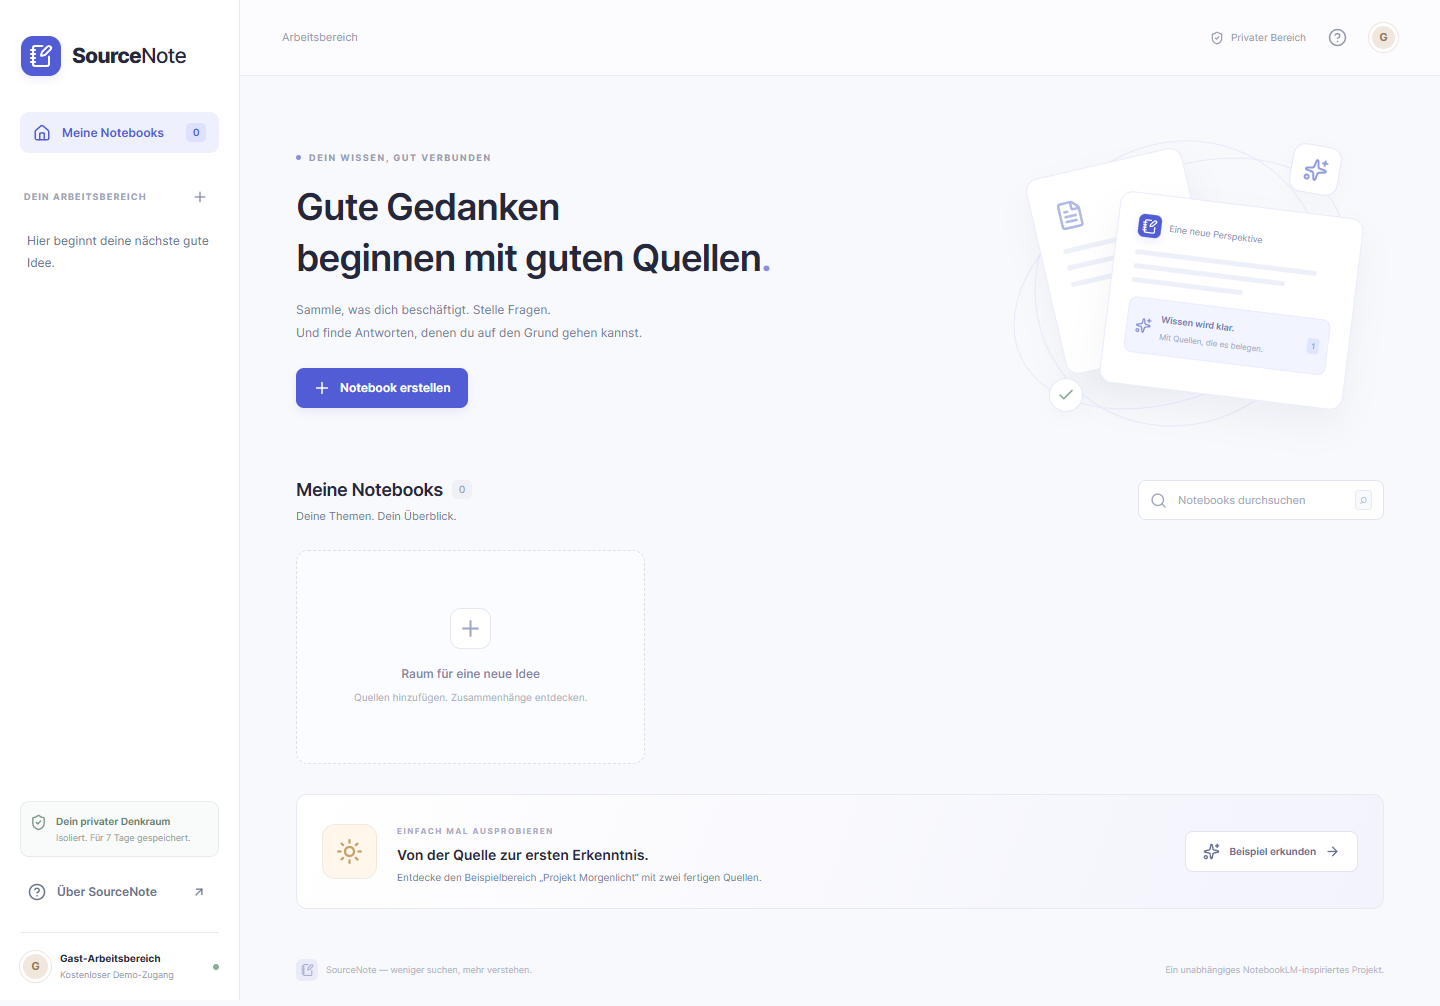
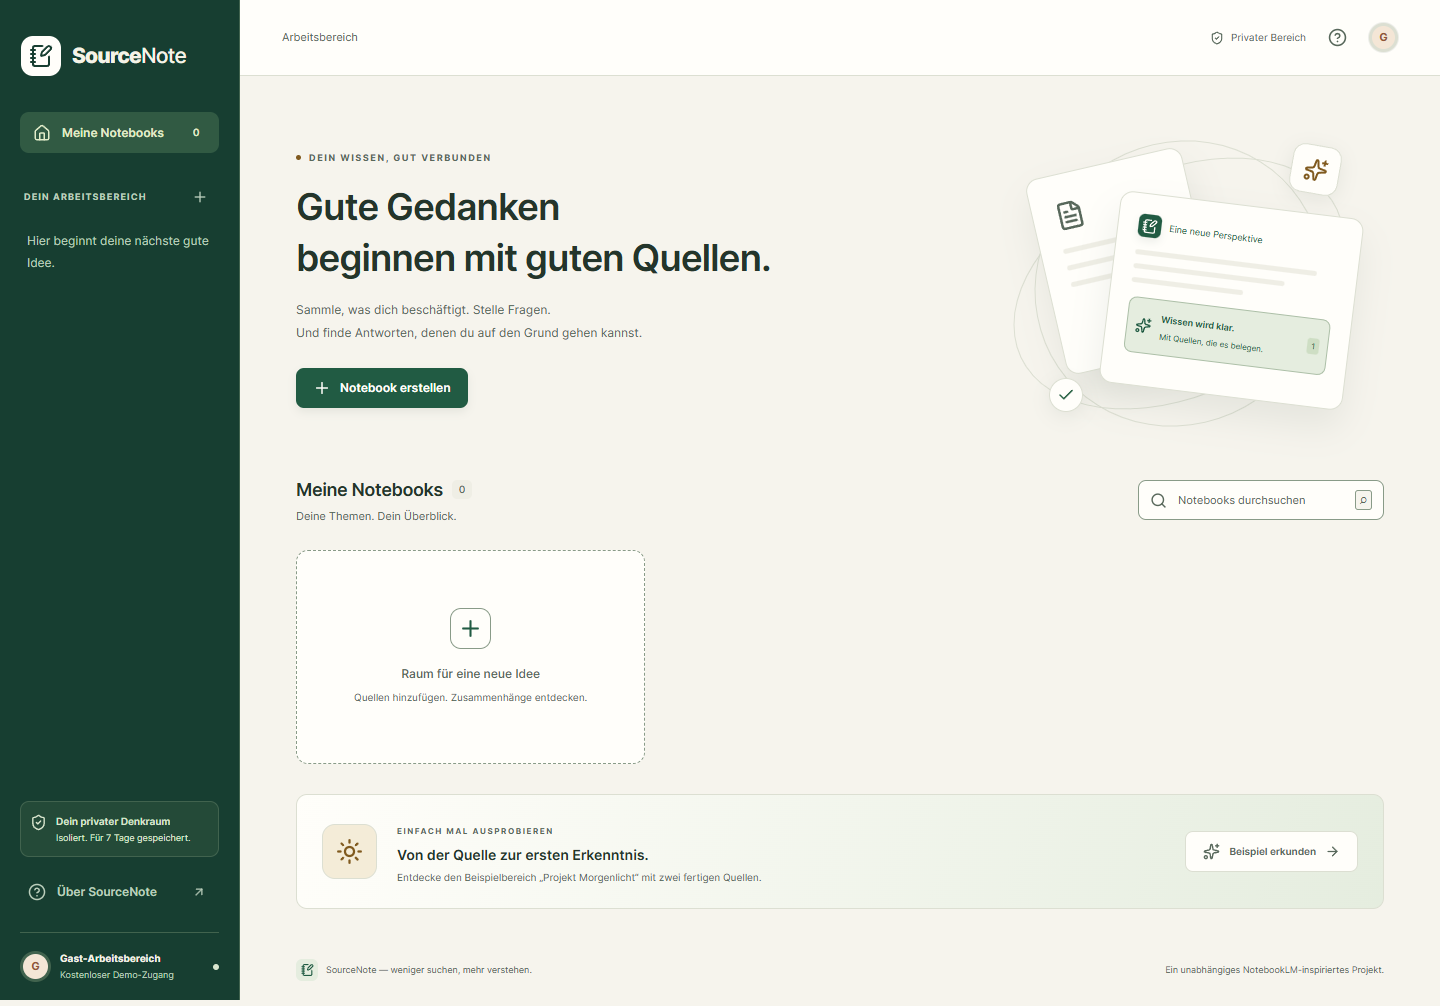
Verify live forest palette and strengthen control borders

diff --git a/src/app/globals.css b/src/app/globals.css
@@ -9,7 +9,7 @@
   --muted: #58685b;
   --subtle: #5d6b5d;
   --line: #dcdfd2;
-  --control-line: #899b88;
+  --control-line: #7f907d;
   --accent: #215b43;
   --accent-dark: #184832;
   --accent-soft: #e5eddf;

diff --git a/docs/design/color-research.md b/docs/design/color-research.md
@@ -38,6 +38,8 @@ The existing CSS now uses semantic color variables throughout; the previous read
 
 All 8 existing desktop/mobile browser tests passed with the new palette. Representative home/workspace screenshots were visually inspected. A computed-style review then checked 248 visible text occurrences across home, notebook creation, workspace, answer/citations, citation dialog, mobile chat, mobile Studio and the mobile navigation drawer. The lowest sampled contrast was **4.74:1**, with no sampled text failures. Both main-surface and sidebar keyboard focus were visibly styled with solid 3px outlines. [Recorded samples](color-verification.json).
 
+Additional token checks: input borders are **3.08:1** against paper and **3.36:1** against panels; focus colors are **4.78:1** against paper and **8.91:1** against the forest rail. Type/lint, 24 backend/provider tests and the production build passed. On the public forest deployment, actual Groq answer/citation, saved note, summary, reload and mobile Studio checks also passed. `docs/screenshots/live-*.png` now show that public workflow without deterministic test mode.
+
 The review excluded disabled controls, hidden elements and decorative illustrations; modal/drawer checks were limited to the active surface. Token/sample measurements do not constitute a full accessibility audit, and the background approximation does not certify every gradient or composite state.
 
 ## Return to the previous version

diff --git a/docs/testing.md b/docs/testing.md
@@ -55,6 +55,10 @@ PASS: Neon notebook and source persisted across full server stop, rebuild and re
 PASS: standalone production page and JavaScript assets return HTTP 200.
 ```
 
+## Forest and paper palette
+
+The forest/paper color update is on `feat/forest-paper-colors`, based on the preserved `feat/sourcenote-implementation` commit `28adc4f`. Type/lint, all 24 backend/provider tests, all 8 desktop/mobile browser tests and production compilation passed. The actual public UI passed real Groq answer/citation, note, summary, reload and mobile Studio checks with the forest palette; the current `live-*.png` screenshots show this run. [Palette research, measured contrast and rollback](design/color-research.md).
+
 ## Bounded Groq evaluation
 
 `npm.cmd run evaluate` runs six synthetic cases against a real provider. [Recorded responses](evaluation-results.json) include evidence-ID-to-source mappings for successful cases. Five responses passed structural validation and inspection against the fixtures: budget breakdown, source exclusion, conflicting approval status, outside-knowledge refusal and prompt-injection handling. The financial payback case was **rejected for invalid evidence**; it is not counted as a successful answer or refusal. The application withheld it. This sample does not establish general factual accuracy or reliability.
